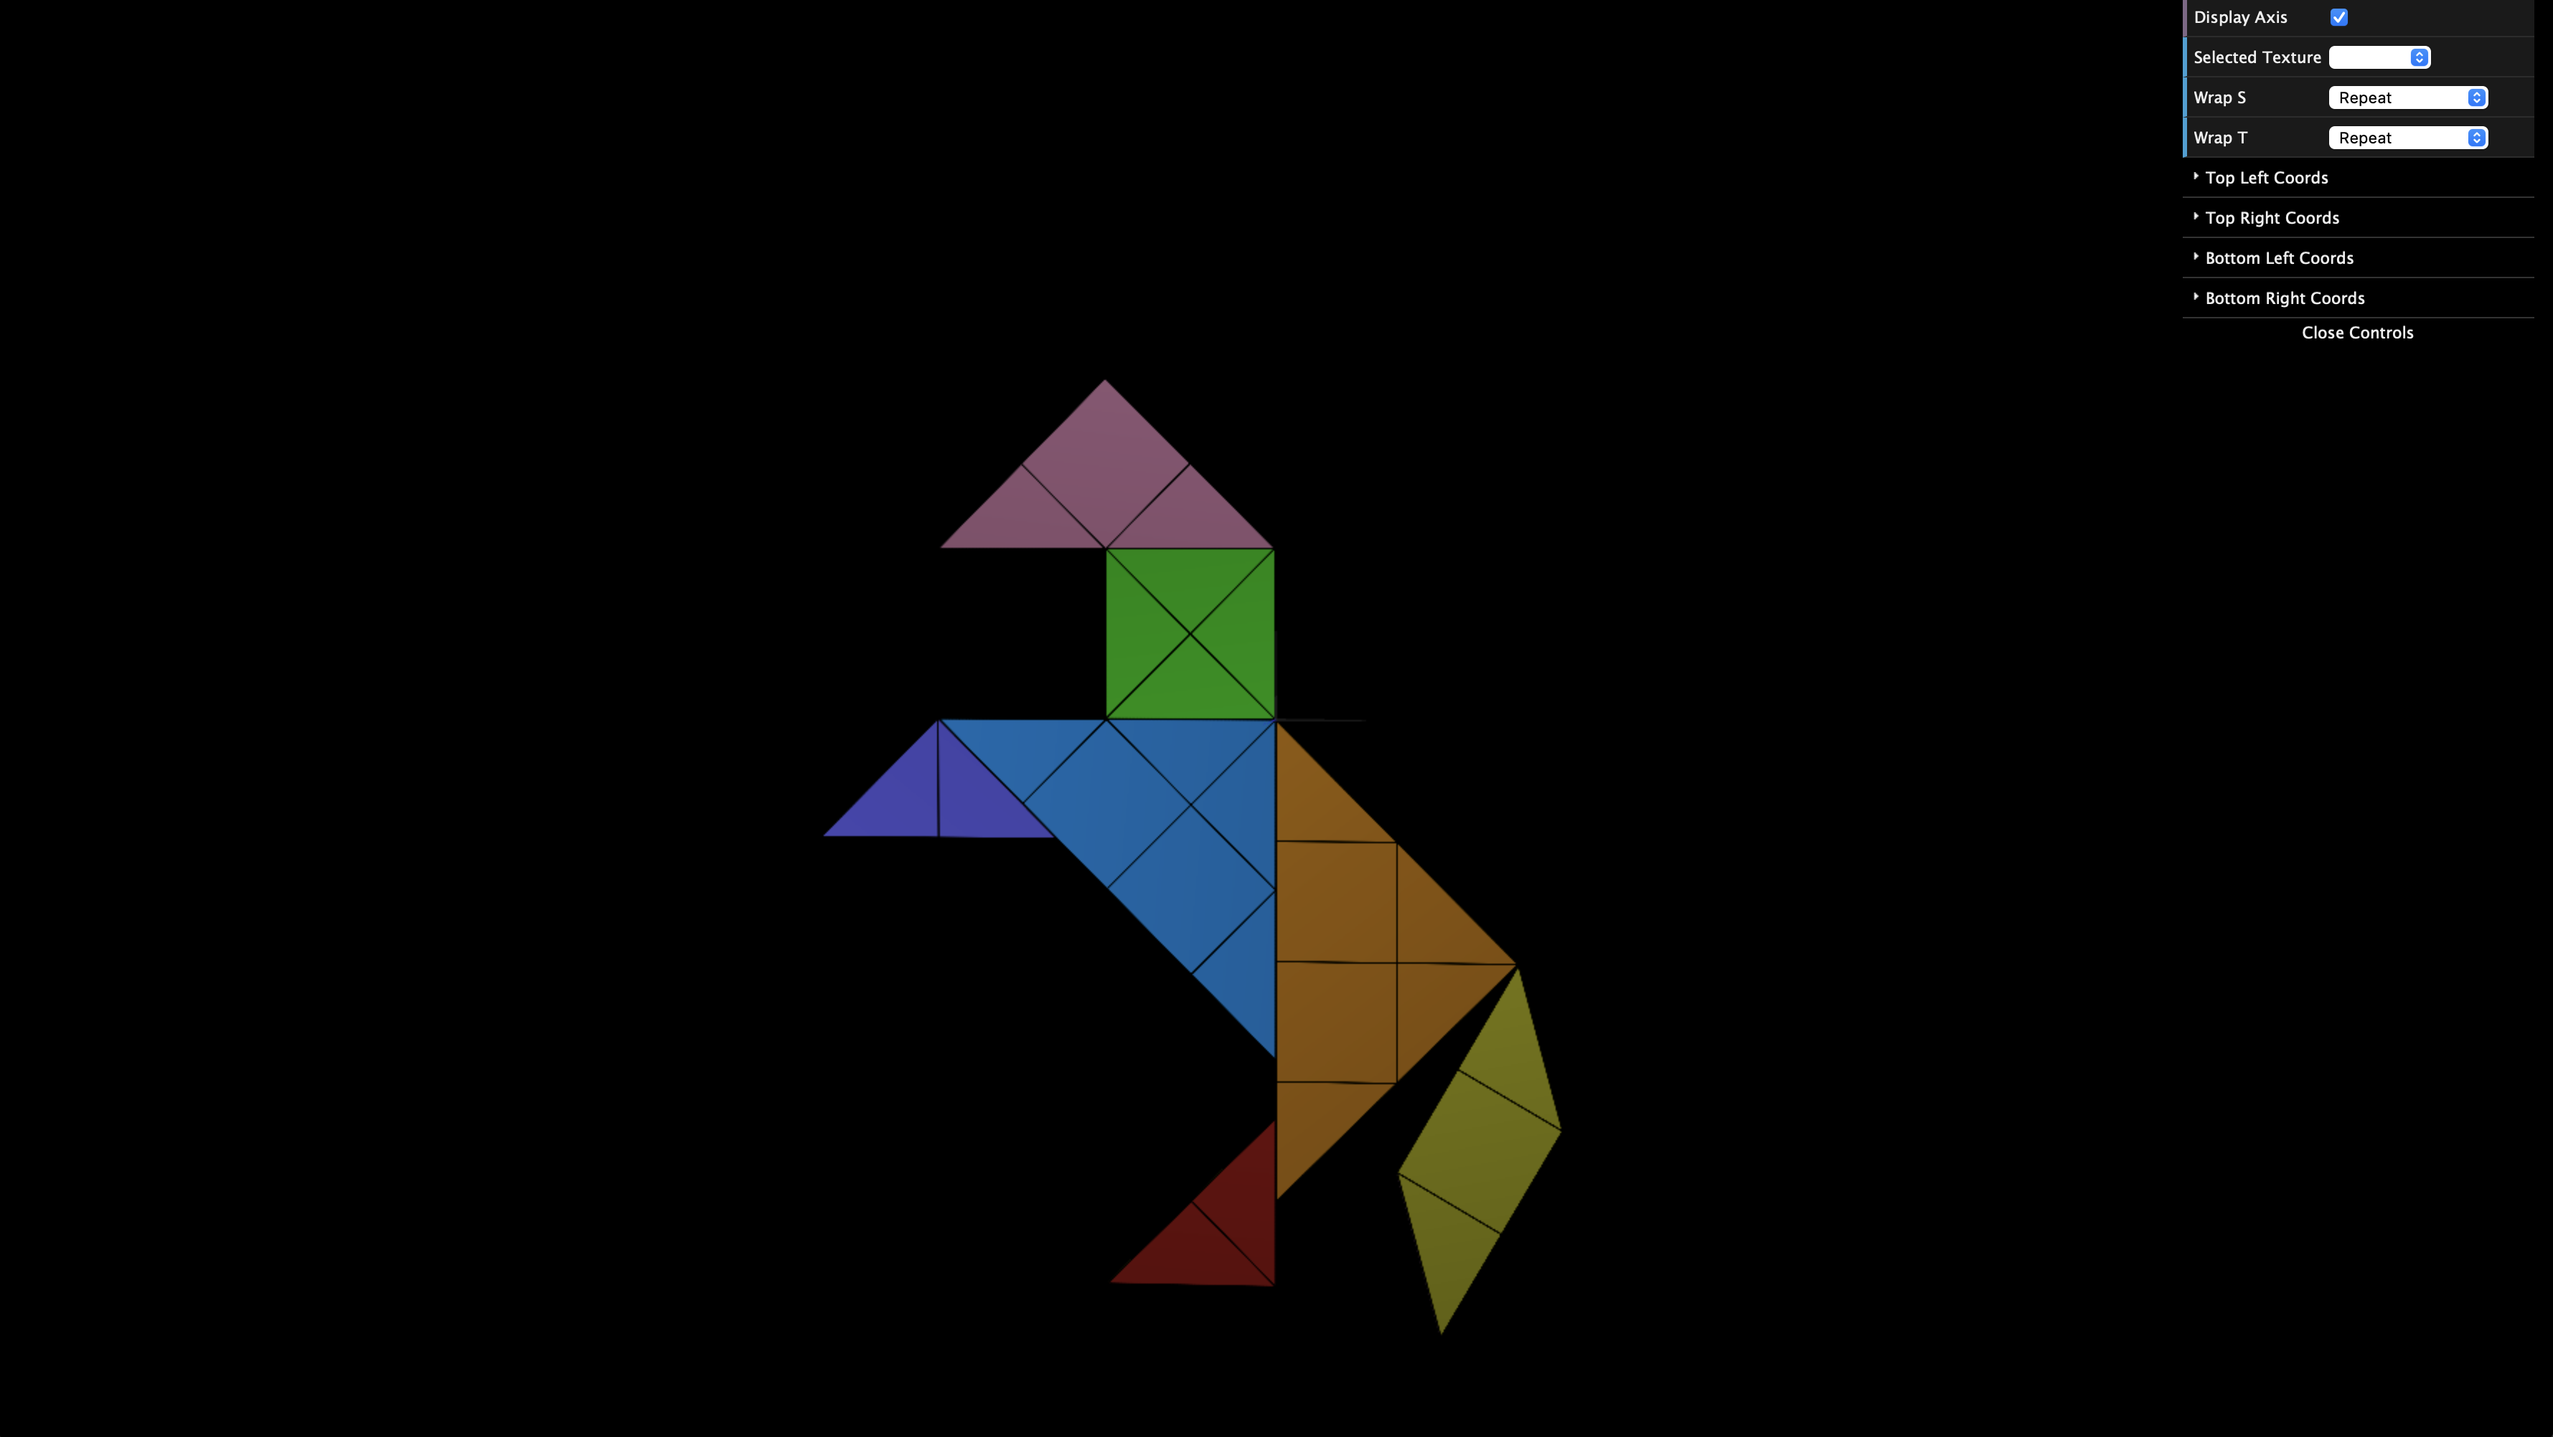
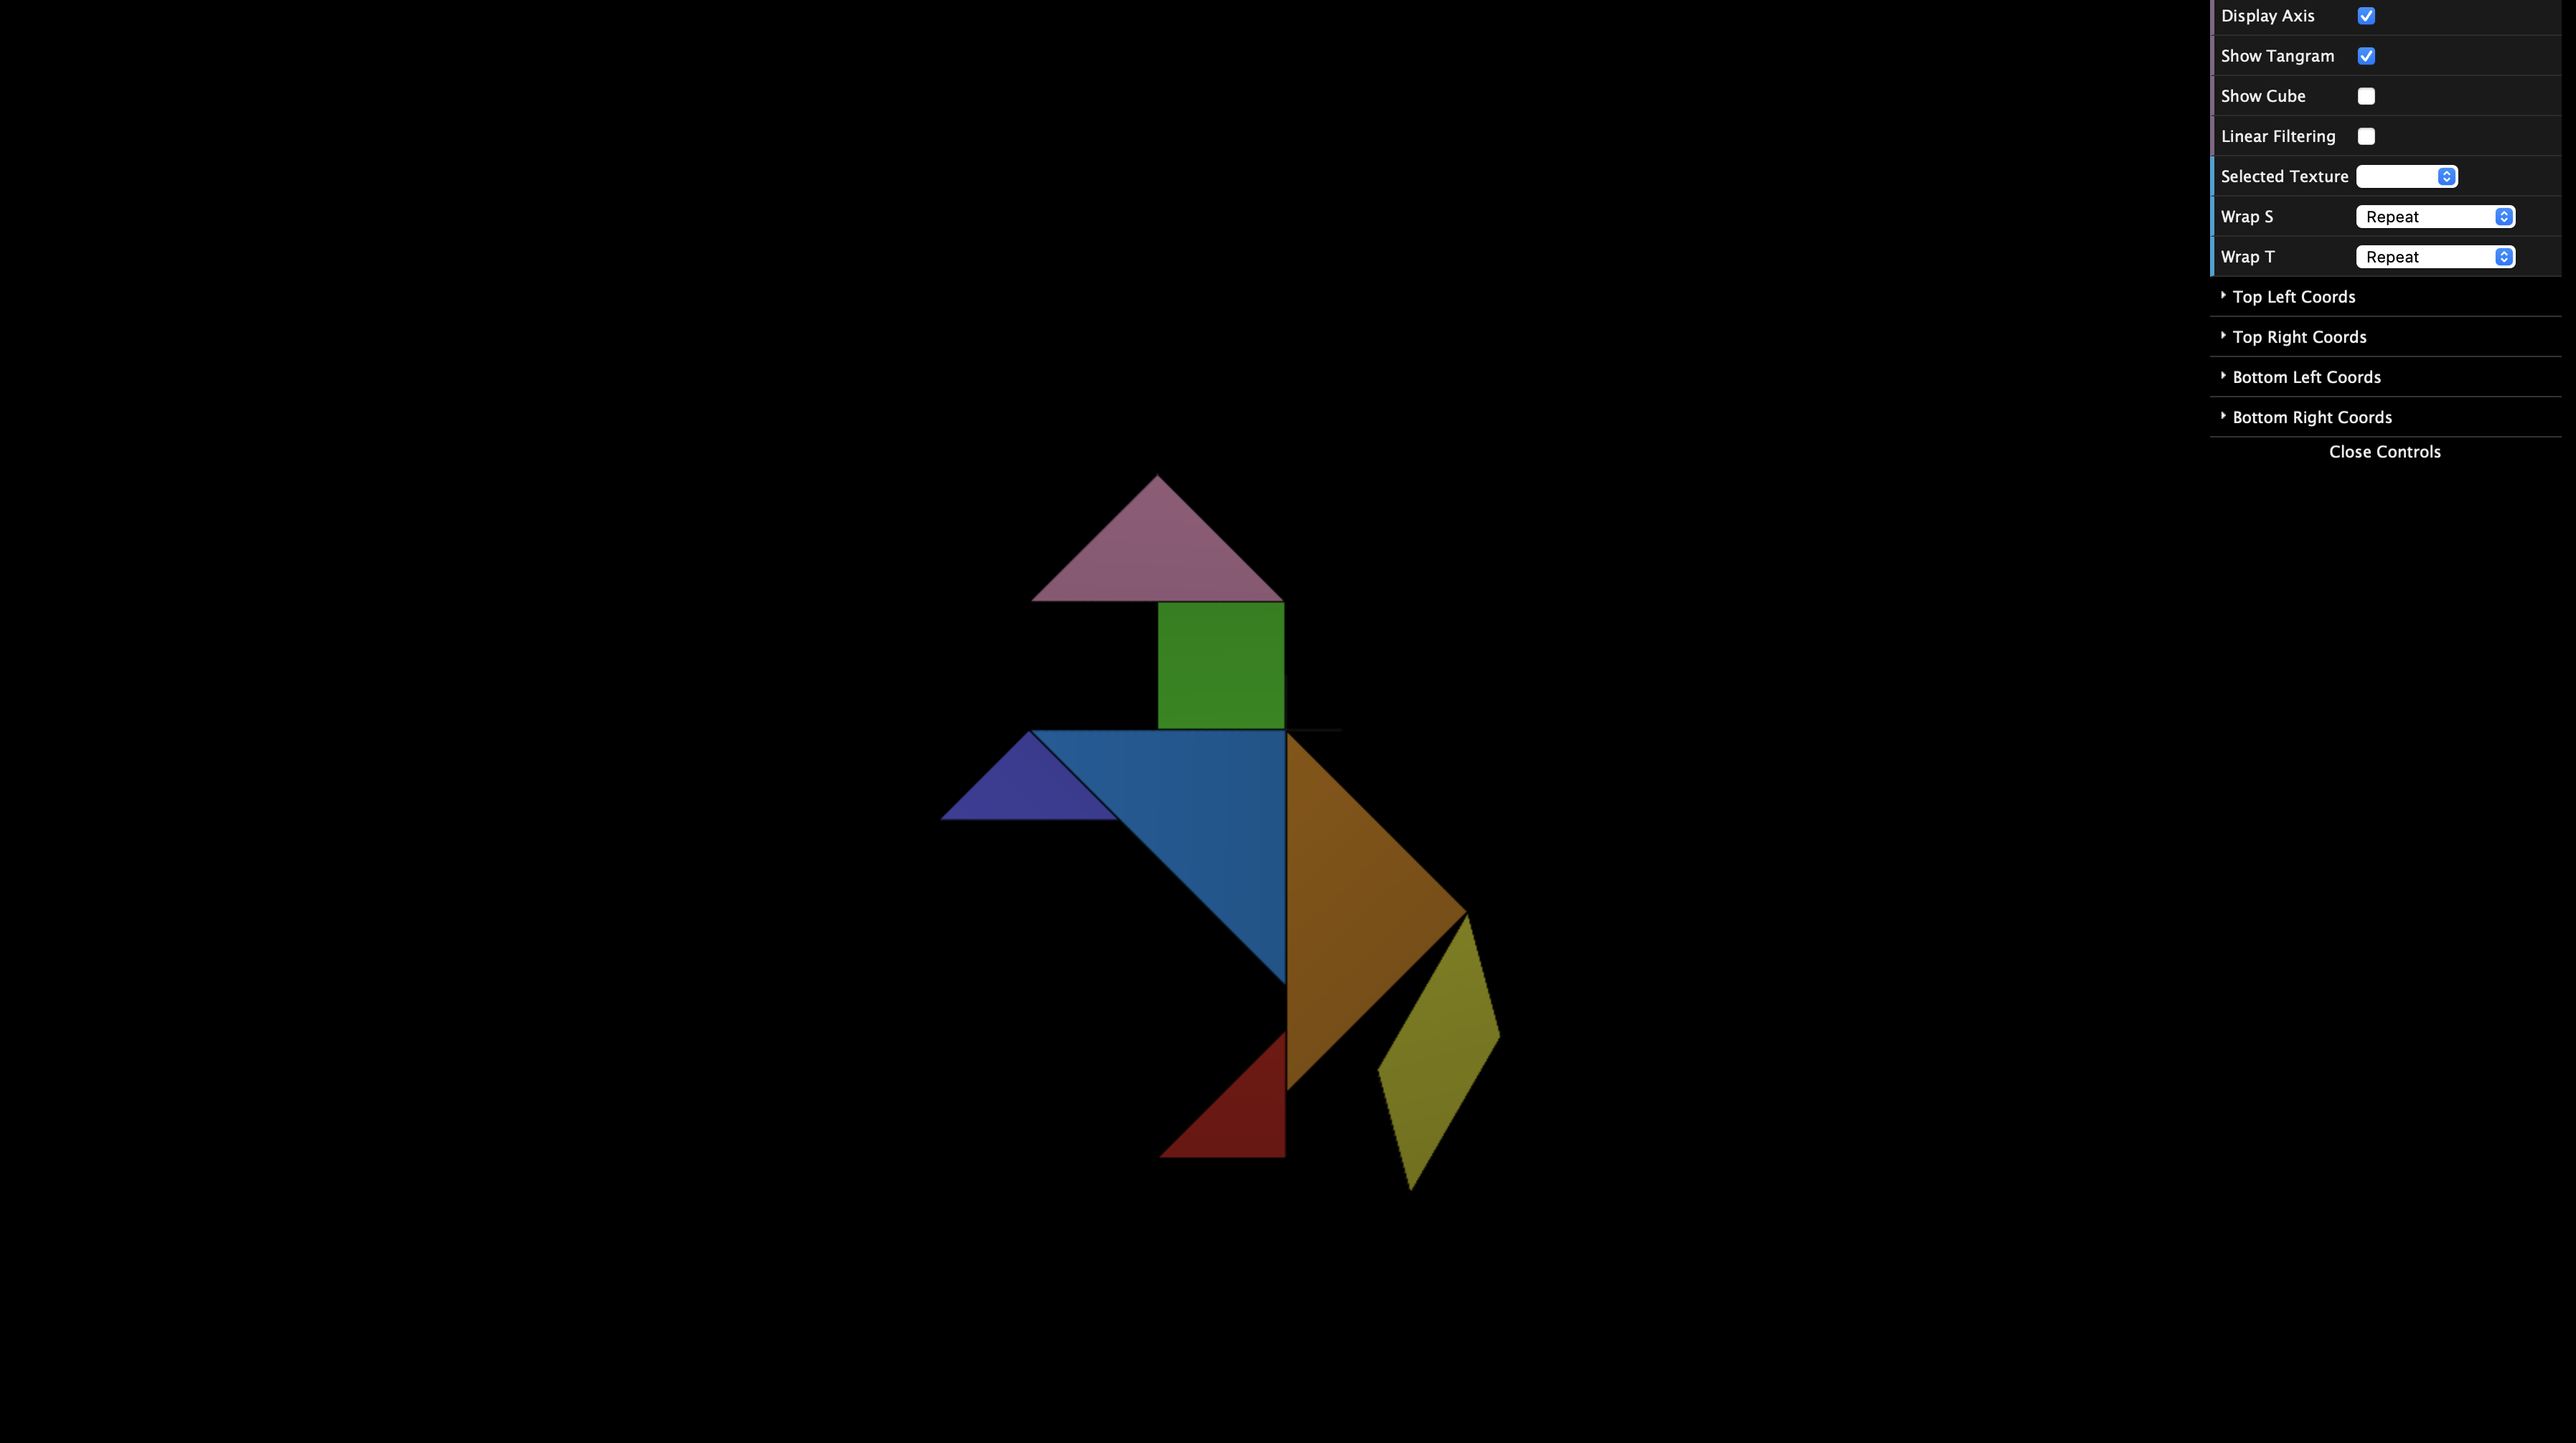
TP4 - Ex2

Changed region(s): [[0.312, 0.2475, 0.6239, 0.9281], [0.8423, 0.0, 0.9983, 0.3403]]

diff --git a/tp4/MyUnitCubeQuad.js b/tp4/MyUnitCubeQuad.js
@@ -1,6 +1,6 @@
 import { CGFobject } from '../../lib/CGF.js';
 import { MyQuad } from './MyQuad.js';
-import { getTranslationMatrix, getXRotationMatrix, getYRotationMatrix } from '../utils/utils.js';
+import { getTranslationMatrix, getXRotationMatrix, getYRotationMatrix } from './utils/utils.js';
 
 /**
  * MyUnitCubeQuad
@@ -9,98 +9,111 @@ import { getTranslationMatrix, getXRotationMatrix, getYRotationMatrix } from '..
  */
 export class MyUnitCubeQuad extends CGFobject {
 
-    bottomFace
-    backFace
-    leftFace
-    frontFace
-    rightFace
-    topFace
+    quad
+    topTexture
+    frontTexture
+    rightTexture
+    leftTexture
+    backTexture
+    bottomTexture
+    textureFiltering
 
 
-    constructor(scene) {
+    constructor(scene, topTexture, frontTexture, rightTexture, leftTexture, backTexture, bottomTexture) {
         super(scene);
         this.initBuffers();
 
-        this.bottomFace = new MyQuad(scene);
-        this.backFace = new MyQuad(scene);
-        this.leftFace = new MyQuad(scene);
-        this.frontFace = new MyQuad(scene);
-        this.rightFace = new MyQuad(scene);
-        this.topFace = new MyQuad(scene);
-
+        this.quad = new MyQuad(scene);
+        this.topTexture = topTexture;
+        this.frontTexture = frontTexture;
+        this.rightTexture = rightTexture;
+        this.leftTexture = leftTexture;
+        this.backTexture = backTexture;
+        this.bottomTexture = bottomTexture;
+        this.textureFiltering = this.scene.gl.NEAREST;
     }
 
     display() {
-        // TP2
-        // Exercice 4
-
-
-        // Bottom face of the cube
-        let rotation = getXRotationMatrix(-90);
-        let translation = getTranslationMatrix(0, -0.5, 0);
-
-        this.scene.pushMatrix();
-        this.scene.multMatrix(translation);
-        this.scene.multMatrix(rotation);
-        this.bottomFace.display();
-        this.scene.popMatrix();
-
+        let rotation = null;
+        let translation = null;
 
         // Top face of the cube
-        rotation = getXRotationMatrix(90);
+        rotation = getXRotationMatrix(270);
         translation = getTranslationMatrix(0, 0.5, 0);
 
         this.scene.pushMatrix();
         this.scene.multMatrix(translation);
         this.scene.multMatrix(rotation);
-        this.topFace.display();
+        this.topTexture.bind();
+        this.scene.gl.texParameteri(this.scene.gl.TEXTURE_2D, this.scene.gl.TEXTURE_MAG_FILTER, this.textureFiltering);
+        this.quad.display();
         this.scene.popMatrix();
-
-
-        // Back face of the cube
-        translation = getTranslationMatrix(0, 0, -0.5);
-
-        this.scene.pushMatrix();
-        this.scene.multMatrix(translation);
-        this.backFace.display();
-        this.scene.popMatrix();
-
-
-
-        // Left face of the cube
-        rotation = getYRotationMatrix(90);
-        translation = getTranslationMatrix(-0.5, 0, 0);
-
-        this.scene.pushMatrix();
-        this.scene.multMatrix(translation);
-        this.scene.multMatrix(rotation);
-        this.leftFace.display();
-        this.scene.popMatrix();
-
 
         // Front face of the cube
-        rotation = getYRotationMatrix(180);
+        rotation = getXRotationMatrix(360);
         translation = getTranslationMatrix(0, 0, 0.5);
 
         this.scene.pushMatrix();
         this.scene.multMatrix(translation);
         this.scene.multMatrix(rotation);
-        this.frontFace.display();
+        this.frontTexture.bind();
+        this.scene.gl.texParameteri(this.scene.gl.TEXTURE_2D, this.scene.gl.TEXTURE_MAG_FILTER, this.textureFiltering);
+        this.quad.display();
         this.scene.popMatrix();
 
-
         // Right face of the cube
-        rotation = getYRotationMatrix(270);
+        rotation = getYRotationMatrix(90);
         translation = getTranslationMatrix(0.5, 0, 0);
 
         this.scene.pushMatrix();
         this.scene.multMatrix(translation);
         this.scene.multMatrix(rotation);
-        this.rightFace.display();
+        this.rightTexture.bind();
+        this.scene.gl.texParameteri(this.scene.gl.TEXTURE_2D, this.scene.gl.TEXTURE_MAG_FILTER, this.textureFiltering);
+        this.quad.display();
         this.scene.popMatrix();
 
+        // Back face of the cube
+        rotation = getYRotationMatrix(180);
+        translation = getTranslationMatrix(0, 0, -0.5);
 
+        this.scene.pushMatrix();
+        this.scene.multMatrix(translation);
+        this.scene.multMatrix(rotation);
+        this.backTexture.bind();
+        this.scene.gl.texParameteri(this.scene.gl.TEXTURE_2D, this.scene.gl.TEXTURE_MAG_FILTER, this.textureFiltering);
+        this.quad.display();
+        this.scene.popMatrix();
 
+        // Left face of the cube
+        rotation = getYRotationMatrix(270);
+        translation = getTranslationMatrix(-0.5, 0, 0);
+
+        this.scene.pushMatrix();
+        this.scene.multMatrix(translation);
+        this.scene.multMatrix(rotation);
+        this.leftTexture.bind();
+        this.scene.gl.texParameteri(this.scene.gl.TEXTURE_2D, this.scene.gl.TEXTURE_MAG_FILTER, this.textureFiltering);
+        this.quad.display();
+        this.scene.popMatrix();
+
+        // Bottom face of the cube
+        rotation = getXRotationMatrix(90);
+        translation = getTranslationMatrix(0, -0.5, 0);
+
+        this.scene.pushMatrix();
+        this.scene.multMatrix(translation);
+        this.scene.multMatrix(rotation);
+        this.bottomTexture.bind();
+        this.scene.gl.texParameteri(this.scene.gl.TEXTURE_2D, this.scene.gl.TEXTURE_MAG_FILTER, this.textureFiltering);
+        console.log(this.textureFiltering)
+        this.quad.display();
+        this.scene.popMatrix();
+
+    }
+
+    changeTexFiltering(filter) {
+        this.textureFiltering = filter
     }
 }
 

diff --git a/tp4/MyScene.js b/tp4/MyScene.js
@@ -1,5 +1,6 @@
 import { CGFscene, CGFcamera, CGFaxis, CGFappearance, CGFtexture } from "../lib/CGF.js";
 import { MyQuad } from "./MyQuad.js";
+import { MyUnitCubeQuad } from "./MyUnitCubeQuad.js";
 import { MyTangram } from "./Objects/MyTangram.js";
 
 /**
@@ -36,7 +37,7 @@ export class MyScene extends CGFscene {
         this.quadMaterial.setDiffuse(0.9, 0.9, 0.9, 1);
         this.quadMaterial.setSpecular(0.1, 0.1, 0.1, 1);
         this.quadMaterial.setShininess(10.0);
-        this.quadMaterial.loadTexture('images/tangram-lines.png');
+        this.quadMaterial.loadTexture('images/tangram.png');
         this.quadMaterial.setTextureWrap('REPEAT', 'REPEAT');
         //------
 
@@ -44,7 +45,13 @@ export class MyScene extends CGFscene {
         this.texture1 = new CGFtexture(this, 'images/board.jpg');
         this.texture2 = new CGFtexture(this, 'images/floor.png');
         this.texture3 = new CGFtexture(this, 'images/window.jpg');
+        this.topTexture = new CGFtexture(this, 'images/mineTop.png');
+        this.sideTexture = new CGFtexture(this, 'images/mineSide.png');
+        this.botTexture = new CGFtexture(this, 'images/mineBottom.png');
         //-------
+
+        // Cube
+        this.myCubeQuad = new MyUnitCubeQuad(this, this.topTexture, this.sideTexture, this.sideTexture, this.sideTexture, this.sideTexture, this.botTexture);
 
         //-------Objects connected to MyInterface
         this.displayAxis = true;
@@ -52,6 +59,9 @@ export class MyScene extends CGFscene {
         this.selectedTexture = -1;
         this.wrapS = 0;
         this.wrapT = 0;
+        this.showTangram = false;
+        this.showMineCube = true;
+        this.useLinear = false;
 
         this.textures = [this.texture1, this.texture2, this.texture3];
         this.texCoords = [0.0, 1.0, 1.0, 1.0, 0.0, 0.0, 1.0, 0.0];
@@ -127,7 +137,18 @@ export class MyScene extends CGFscene {
 
         // this.gl.texParameteri(this.gl.TEXTURE_2D, this.gl.TEXTURE_MAG_FILTER, this.gl.NEAREST);
 
-        this.tangram.display();
+        if (this.showTangram) {
+            this.tangram.display();
+        }
+
+        if (this.showMineCube) {
+            if (this.useLinear) {
+                this.myCubeQuad.changeTexFiltering(this.gl.LINEAR);
+            } else {
+                this.myCubeQuad.changeTexFiltering(this.gl.NEAREST);
+            }
+            this.myCubeQuad.display();
+        }
 
         // ---- END Primitive drawing section
     }

diff --git a/tp4/MyInterface.js b/tp4/MyInterface.js
@@ -1,4 +1,4 @@
-import {CGFinterface, dat} from '../lib/CGF.js';
+import { CGFinterface, dat } from '../lib/CGF.js';
 
 /**
 * MyInterface
@@ -12,15 +12,18 @@ export class MyInterface extends CGFinterface {
     init(application) {
         // call CGFinterface init
         super.init(application);
-        
+
         // init GUI. For more information on the methods, check:
         // https://github.com/dataarts/dat.gui/blob/master/API.md
         this.gui = new dat.GUI();
-        
+
         var obj = this;
 
         //Checkbox element in GUI
         this.gui.add(this.scene, 'displayAxis').name('Display Axis');
+        this.gui.add(this.scene, 'showTangram').name('Show Tangram');
+        this.gui.add(this.scene, 'showMineCube').name('Show Cube');
+        this.gui.add(this.scene, 'useLinear').name('Linear Filtering');
 
         //Dropdown for textures
         this.gui.add(this.scene, 'selectedTexture', this.scene.textureIds).name('Selected Texture').onChange(this.scene.updateAppliedTexture.bind(this.scene));

diff --git a/tp4/README.md b/tp4/README.md
@@ -25,4 +25,15 @@ this.texCoords = [
 
 ![Screenshot 1](screenshots/cg-t04g08-tp4-1.png)
 
+The next exercice told us to apply 3 textures to a cube. One for the top face, one for the sides and one for the bottom.
+Initially the result was blurry due to WebGL defaulting to Linear Filtering which computes a weighted average of the surrounding texels before coloring a pixel (Bilinear interpolation).
+
+![Screenshot 2](screenshots/extras/cube-extra.png)
+
+
+To solve this we used Linear filtering which selects the closest texel without doing any average:
+
+![Screenshot 3](screenshots/cg-t04g08-tp4-2.png)
+
+
 
